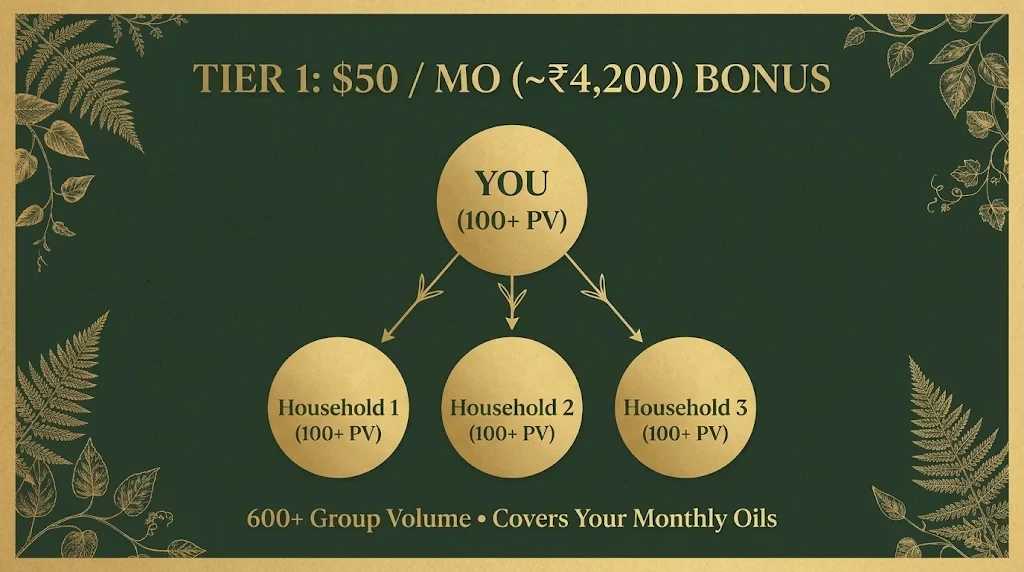
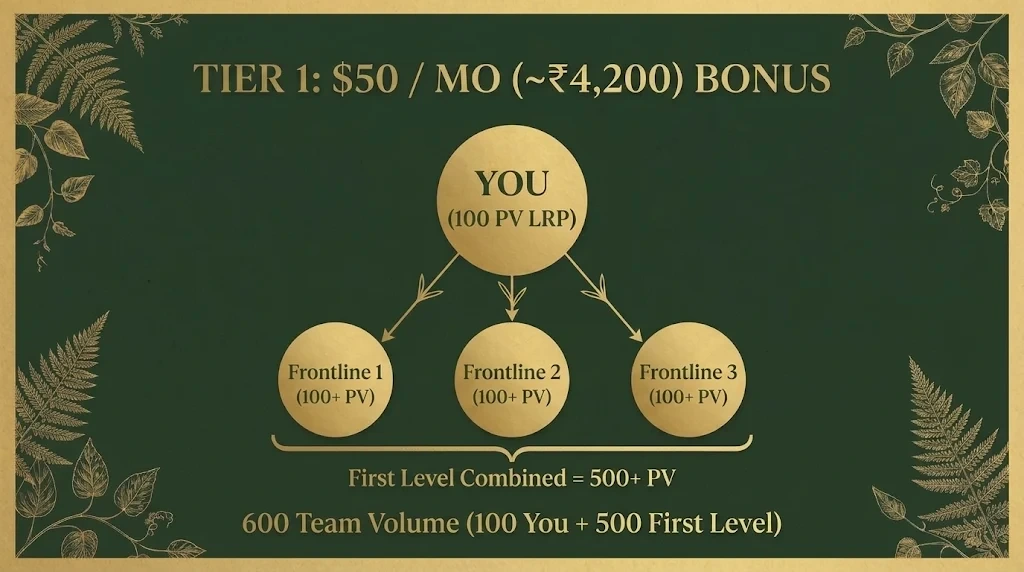
Update Power of 3 copy and diagrams to exact dōTERRA 600 Team Volume (100+500) rules

diff --git a/partners.html b/partners.html
@@ -618,7 +618,7 @@ function init_tracer() {
           <div class="pn-next-bar"><div><span class="pn-next-label">Next Step</span><span class="pn-next-text">Grab your 1-tap invite notes and AI post helper inside <strong>Sharing</strong>.</span></div><button type="button" class="pn-next-btn" data-go-tab="tab-sharing">Go to Sharing &rarr;</button></div>
         </div>
 
-        <div class="pn-panel" id="tab-power3" role="tabpanel"><div class="pn-card"><span class="pn-kicker">Transparent Compensation &bull; USD ($) &amp; INR (&#8377;)</span><h2 style="text-align:center;">Power of 3: How You Earn &amp; How Group Volume Works</h2><p style="text-align:center;max-width:720px;margin:0 auto 20px;">Kalyani Ma never touches your commissions. Every bonus is tracked through your embedded Member ID and paid directly to you by d&#333;TERRA in <strong>US Dollars ($)</strong> or <strong>Indian Rupees (&#8377;)</strong>.</p><div class="pn-flipbook" id="power3ManualBook" tabindex="0"><div class="pn-fb-top"><div class="pn-fb-pages"><button type="button" class="pn-fb-num active" data-p3-idx="0">1</button><button type="button" class="pn-fb-num" data-p3-idx="1">2</button><button type="button" class="pn-fb-num" data-p3-idx="2">3</button><button type="button" class="pn-fb-num" data-p3-idx="3">4</button></div><span class="pn-fb-count" id="p3PageCount">Page 1 / 4</span></div><div class="pn-fb-stage"><div class="pn-fb-slide active" data-p3-slide="0"><div class="pn-fb-imgwrap"><img src="assets/power-of-3/step-1.webp" alt="Stage 1"></div><div class="pn-fb-cap"><span class="pn-fb-step">Stage 1 of 4 &bull; Where You Are Now</span><h3>Start at Your Own Pace &mdash; Zero Mandatory Monthly Spend</h3><p>You do <strong>not</strong> need to buy $100 (~&#8377;8,500&ndash;&#8377;11,000) of product every month just to keep your account active or share your Kalyani link. Acquire only the oils your own home uses while you share your link.</p></div></div><div class="pn-fb-slide" data-p3-slide="1"><div class="pn-fb-imgwrap"><img src="assets/power-of-3/step-2.webp" alt="Stage 2"></div><div class="pn-fb-cap"><span class="pn-fb-step">Stage 2 of 4 &bull; Tier 1 ($50 / ~&#8377;4,200 Monthly Bonus)</span><h3>3 Frontline Households &mdash; Making Your Own Oils a &ldquo;Wash&rdquo;</h3><p>Once <strong>3 frontline households</strong> order 100+ PV/month (600+ <strong>Group Volume</strong>), activating your 100 PV LRP order unlocks the <strong>$50/mo (~&#8377;4,200) Power of 3 bonus</strong> plus Fast Start &amp; Unilevel commissions&mdash;covering your own monthly oils.</p></div></div><div class="pn-fb-slide" data-p3-slide="2"><div class="pn-fb-imgwrap"><img src="assets/power-of-3/step-3.webp" alt="Stage 3"></div><div class="pn-fb-cap"><span class="pn-fb-step">Stage 3 of 4 &bull; Tier 2 ($250 / ~&#8377;21,000 Monthly Bonus)</span><h3>9 Second-Level Households &mdash; Your Personal Order Never Increases</h3><p>When each of your 3 frontline partners helps 3 households (9 second-level homes at 100+ PV), your <strong>Group Volume</strong> unlocks the <strong>$250/month (~&#8377;21,000)</strong> bonus paid directly to you. Your own qualifying order stays capped at 100 PV/month.</p></div></div><div class="pn-fb-slide" data-p3-slide="3"><div class="pn-fb-imgwrap"><img src="assets/power-of-3/step-4.webp" alt="Stage 4"></div><div class="pn-fb-cap"><span class="pn-fb-step">Stage 4 of 4 &bull; Tier 3 ($1,500 / ~&#8377;1,26,000 Monthly Bonus)</span><h3>27 Third-Level Households &mdash; Paid From Group Volume, Never Your Pocket</h3><p>When those 9 second-level partners each help 3 households (27 third-level homes), your <strong>Group Volume</strong> unlocks the <strong>$1,500/month (~&#8377;1,26,000)</strong> bonus plus Unilevel commissions. Even at Tier 3, you never spend $1,500/month&mdash;your personal order stays 100 PV/month.</p></div></div></div><div class="pn-fb-nav"><button type="button" class="pn-fb-btn" id="p3PrevBtn" disabled>&larr; Previous</button><button type="button" class="pn-fb-btn" id="p3NextBtn">Next &rarr;</button></div></div><div style="margin-top:22px;padding:18px 20px;background:rgba(7,12,8,0.65);border:1px solid rgba(203,178,121,0.35);border-radius:10px;"><h3 style="font-size:15px;letter-spacing:0.08em;text-transform:uppercase;color:#F2CA76;margin:0 0 8px;">What &ldquo;Group Volume&rdquo; Means</h3><p style="margin:0 0 10px;"><strong>Group Volume</strong> is the combined dollar or rupee amount of the oils ordered each month by everyone in your group&mdash;never money out of your pocket. Modeling your own 100 PV monthly order is what qualifies you to collect Power of 3 bonuses and helps your frontline duplicate the habit.</p><p style="margin:0;font-size:13px;color:#cfc9bc!important;border-top:1px solid rgba(203,178,121,0.2);padding-top:10px;"><strong>d&#333;TERRA Opportunity &amp; Earnings Disclosure:</strong> Individual results vary; no income is guaranteed. Approximate INR equivalents convert at d&#333;TERRA India&rsquo;s official PV exchange rate. See <a href="https://www.doterra.com" target="_blank" rel="noopener" style="color:#F2CA76;">doterra.com</a>.</p></div></div></div>
+        <div class="pn-panel" id="tab-power3" role="tabpanel"><div class="pn-card"><span class="pn-kicker">Transparent Compensation &bull; USD ($) &amp; INR (&#8377;)</span><h2 style="text-align:center;">Power of 3: How You Earn &amp; How Team Volume Works</h2><p style="text-align:center;max-width:720px;margin:0 auto 20px;">Kalyani Ma never touches your commissions. Every bonus is tracked through your embedded Member ID and paid directly to you by d&#333;TERRA in <strong>US Dollars ($)</strong> or <strong>Indian Rupees (&#8377;)</strong>.</p><div class="pn-flipbook" id="power3ManualBook" tabindex="0"><div class="pn-fb-top"><div class="pn-fb-pages"><button type="button" class="pn-fb-num active" data-p3-idx="0">1</button><button type="button" class="pn-fb-num" data-p3-idx="1">2</button><button type="button" class="pn-fb-num" data-p3-idx="2">3</button><button type="button" class="pn-fb-num" data-p3-idx="3">4</button></div><span class="pn-fb-count" id="p3PageCount">Page 1 / 4</span></div><div class="pn-fb-stage"><div class="pn-fb-slide active" data-p3-slide="0"><div class="pn-fb-imgwrap"><img src="assets/power-of-3/step-1.webp" alt="Stage 1"></div><div class="pn-fb-cap"><span class="pn-fb-step">Stage 1 of 4 &bull; Where You Are Now</span><h3>Start at Your Own Pace &mdash; Zero Mandatory Monthly Spend</h3><p>You do <strong>not</strong> need to buy $100 (~&#8377;8,500&ndash;&#8377;11,000) of product every month just to keep your account active or share your Kalyani link. Acquire only the oils your own home uses while you share your link.</p></div></div><div class="pn-fb-slide" data-p3-slide="1"><div class="pn-fb-imgwrap"><img src="assets/power-of-3/step-2.webp" alt="Stage 2"></div><div class="pn-fb-cap"><span class="pn-fb-step">Stage 2 of 4 &bull; Tier 1 ($50 / ~&#8377;4,200 Monthly Bonus)</span><h3>3 Frontline Households &mdash; Making Your Own Oils a &ldquo;Wash&rdquo;</h3><p>Each month: (1) You place your own <strong>100+ PV LRP order</strong>, (2) <strong>3 personally placed first-level partners</strong> each order at least <strong>100 PV</strong>, and (3) those three together reach <strong>500+ PV</strong> (e.g., 200 + 200 + 100 or 300 + 100 + 100)&mdash;totaling <strong>600 Team Volume</strong> to unlock the <strong>$50/mo (~&#8377;4,200)</strong> bonus.</p></div></div><div class="pn-fb-slide" data-p3-slide="2"><div class="pn-fb-imgwrap"><img src="assets/power-of-3/step-3.webp" alt="Stage 3"></div><div class="pn-fb-cap"><span class="pn-fb-step">Stage 3 of 4 &bull; Tier 2 ($250 / ~&#8377;21,000 Monthly Bonus)</span><h3>9 Second-Level Households &mdash; Your Personal Order Never Increases</h3><p>When <strong>each of your 3 first-level leaders</strong> achieves their own <strong>600 Team Volume</strong> (100 PV LRP + 500+ PV across their 3 frontline partners = 9 second-level members), you unlock the <strong>$250/month (~&#8377;21,000)</strong> bonus. Only your first 100 PV counts toward your 600 Team Volume.</p></div></div><div class="pn-fb-slide" data-p3-slide="3"><div class="pn-fb-imgwrap"><img src="assets/power-of-3/step-4.webp" alt="Stage 4"></div><div class="pn-fb-cap"><span class="pn-fb-step">Stage 4 of 4 &bull; Tier 3 ($1,500 / ~&#8377;1,26,000 Monthly Bonus)</span><h3>27 Third-Level Households &mdash; Paid From Group Volume, Never Your Pocket</h3><p>When all <strong>9 second-level leaders</strong> also achieve their own <strong>600 Team Volume</strong> (27 third-level members), you unlock the <strong>$1,500/month (~&#8377;1,26,000)</strong> bonus plus Unilevel commissions. Even at Tier 3, your qualifying LRP order stays <strong>100 PV/month</strong>.</p></div></div></div><div class="pn-fb-nav"><button type="button" class="pn-fb-btn" id="p3PrevBtn" disabled>&larr; Previous</button><button type="button" class="pn-fb-btn" id="p3NextBtn">Next &rarr;</button></div></div><div style="margin-top:22px;padding:18px 20px;background:rgba(7,12,8,0.65);border:1px solid rgba(203,178,121,0.35);border-radius:10px;"><h3 style="font-size:15px;letter-spacing:0.08em;text-transform:uppercase;color:#F2CA76;margin:0 0 8px;">How Power of 3 Qualifies: Team Volume vs. Organizational Volume</h3><p style="margin:0 0 10px;"><strong>How Power of 3 qualifies (each month):</strong> (1) You place your own <strong>100 PV</strong> order on LRP (the monthly autoship). (2) Three people you personally placed on your <strong>first level</strong> each order at least <strong>100 PV</strong>. (3) Those three together reach <strong>500 PV or more</strong> (for example, 300 + 100 + 100 or 200 + 200 + 100). That&rsquo;s your 100 plus 500 from your first level, for <strong>600 Team Volume</strong>. Anything you order over 100 PV doesn&rsquo;t count toward the 600, and neither does volume from people below your first three&mdash;that deeper volume is <strong>Organizational Volume (OV)</strong>, used for leadership ranks like Elite (3,000 OV) and Premier (5,000 OV). <em>Example:</em> You 100 + first level 200, 200, 100 qualifies; You 300 + first level 100, 100, 100 does not qualify because your first level only reached 300 PV.</p><p style="margin:0;font-size:13px;color:#cfc9bc!important;border-top:1px solid rgba(203,178,121,0.2);padding-top:10px;"><strong>d&#333;TERRA Opportunity &amp; Earnings Disclosure:</strong> Individual results vary; no income is guaranteed. Approximate INR equivalents convert at d&#333;TERRA India&rsquo;s official PV exchange rate. See <a href="https://www.doterra.com" target="_blank" rel="noopener" style="color:#F2CA76;">doterra.com</a>.</p></div></div></div>
 <div class="pn-panel" id="tab-sharing" role="tabpanel">
           <div class="pn-card">
             <span class="pn-kicker">1-Tap Invite Notes</span>
